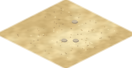
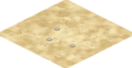
Art samples: painted style + renders in all engines
Claude-Session: https://claude.ai/code/session_01QSZFyZuWL4hZegdMtJgmEj

diff --git a/art-samples/styles/painted/src/terrain.py b/art-samples/styles/painted/src/terrain.py
@@ -31,12 +31,12 @@ def alpha_mask(u, v):
 
 def base(kind, u, v):
     """shared (variant-independent) large-scale colour -> seamless."""
-    n = pnoise(u, v, 3, 11) * 1.0 + pnoise(u, v, 6, 12) * .6 + pnoise(u, v, 12, 13) * .35
+    n = pnoise(u, v, 3, 11) * .25 + pnoise(u, v, 6, 12) * .45 + pnoise(u, v, 12, 13) * .6 + pnoise(u, v, 20, 18) * .35
     return n
 
 PAL = {
     'deep': ('#1f5f7a', '#17506b', '#2a7390'),
-    'shallow': ('#4fb3b4', '#3aa0aa', '#7ad0c2'),
+    'shallow': ('#52aeb0', '#3f9ba6', '#74c8bd'),
     'sand': ('#e4cd96', '#d4b87e', '#f0dfae'),
     'grass': ('#6e9a46', '#5a8a3c', '#8bb352'),
     'road': ('#b08a5c', '#9a774c', '#c7a574'),
@@ -55,7 +55,7 @@ def make(kind, variant):
         # horizontal-ish painted wave bands (iso-aligned), periodic
         w = np.sin((u + v) * 2 * math.pi * 3 + pnoise(u, v, 4, 15) * 6) * .5 + .5
         k = 18 if kind == 'deep' else 14
-        col = col + (w[..., None] - .5) * k * np.array([.6, 1, 1])
+        col = col + (w[..., None] - .5) * k * .6 * np.array([.6, 1, 1])
     if kind == 'sand':
         rip = np.sin((u - v) * 2 * math.pi * 4 + pnoise(u, v, 5, 16) * 5)
         col = col + rip[..., None] * 4

diff --git a/art-samples/styles/painted/src/ui.py b/art-samples/styles/painted/src/ui.py
@@ -195,8 +195,8 @@ def panel(W=360, Hh=300):
         col = (106, 154, 64, 255) if fr > .25 else (200, 100, 60, 255)
         d.rounded_rectangle([x0 + 3, y + 15, x0 + 3 + (x1 - x0 - 6) * fr, y + 35], radius=5, fill=col)
         d.text((pw - 12 * k, y + 6), str(v), font=font(34), fill=(60, 36, 14, 255), anchor='ra')
-        d.line([(12 * k, y + 70), (pw - 12 * k, y + 70)], fill=(150, 116, 70, 110), width=1)
-        y += 84
+        d.line([(12 * k, y + 62), (pw - 12 * k, y + 62)], fill=(150, 116, 70, 110), width=1)
+        y += 72
     wood.paste(pap, (m, m))
     wd = ImageDraw.Draw(wood)
     # inner dark inset line + frame bevel
